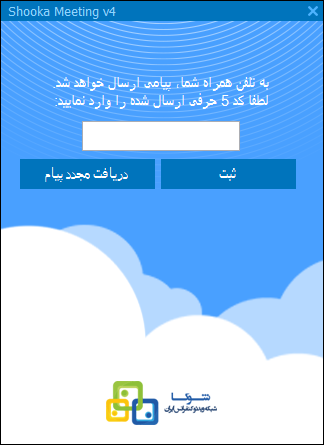
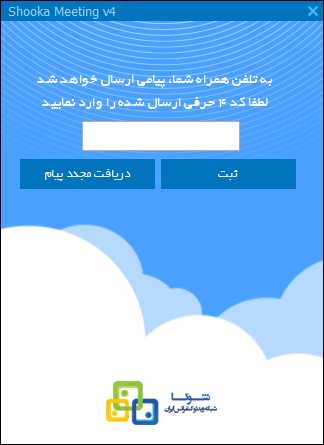
welcome form and confirm number form

Changed region(s): [[0.1235, 0.1461, 0.8333, 0.2629], [0.1235, 0.3798, 0.4012, 0.409], [0.679, 0.3798, 0.7407, 0.409]]

diff --git a/DesktopGuide/fa33.Designer.cs b/DesktopGuide/fa33.Designer.cs
@@ -37,6 +37,9 @@
             this.arrow6 = new DesktopGuide.Controls.Arrow();
             this.main = new System.Windows.Forms.PictureBox();
             this.myButton5 = new DesktopGuide.Controls.MyButton();
+            this.myLabel2 = new DesktopGuide.Controls.MyLabel();
+            this.arrow1 = new DesktopGuide.Controls.Arrow();
+            this.myLabel9 = new DesktopGuide.Controls.MyLabel();
             ((System.ComponentModel.ISupportInitialize)(this.main)).BeginInit();
             this.main.SuspendLayout();
             this.SuspendLayout();
@@ -66,7 +69,7 @@
             this.myLabel1.AutoSize = true;
             this.myLabel1.Font = new System.Drawing.Font("Arial", 12F, System.Drawing.FontStyle.Regular, System.Drawing.GraphicsUnit.Point, ((byte)(178)));
             this.myLabel1.ForeColor = System.Drawing.Color.Red;
-            this.myLabel1.Location = new System.Drawing.Point(425, 232);
+            this.myLabel1.Location = new System.Drawing.Point(425, 263);
             this.myLabel1.Name = "myLabel1";
             this.myLabel1.Size = new System.Drawing.Size(17, 18);
             this.myLabel1.TabIndex = 47;
@@ -91,8 +94,8 @@
             this.label2.RightToLeft = System.Windows.Forms.RightToLeft.Yes;
             this.label2.Size = new System.Drawing.Size(311, 243);
             this.label2.TabIndex = 54;
-            this.label2.Text = "شماره تلفن همراه خود را در این قسمت وارد نمایید.\r\n\r\nبرای دریافت کد فعالسازی این د" +
-    "کمه را فشار دهید.\r\n";
+            this.label2.Text = "شماره تلفن همراه خود را در این قسمت وارد نمایید.\r\n\r\nایمیل خود را در این قسمت وارد" +
+    " نمایید.\r\n\r\nبرای دریافت کد فعالسازی این دکمه را فشار دهید.\r\n";
             // 
             // myLabel8
             // 
@@ -128,9 +131,9 @@
             this.arrow6._transparentParent = this;
             this.arrow6.BackColor = System.Drawing.Color.Transparent;
             this.arrow6.ForeColor = System.Drawing.Color.SteelBlue;
-            this.arrow6.Location = new System.Drawing.Point(315, 232);
+            this.arrow6.Location = new System.Drawing.Point(379, 262);
             this.arrow6.Name = "arrow6";
-            this.arrow6.Size = new System.Drawing.Size(103, 18);
+            this.arrow6.Size = new System.Drawing.Size(42, 18);
             this.arrow6.TabIndex = 80;
             // 
             // main
@@ -153,16 +156,55 @@
             this.myButton5.FlatAppearance.BorderColor = System.Drawing.Color.FromArgb(((int)(((byte)(128)))), ((int)(((byte)(0)))), ((int)(((byte)(0)))), ((int)(((byte)(0)))));
             this.myButton5.FlatAppearance.BorderSize = 2;
             this.myButton5.FlatStyle = System.Windows.Forms.FlatStyle.Flat;
-            this.myButton5.Location = new System.Drawing.Point(136, 162);
+            this.myButton5.Location = new System.Drawing.Point(144, 229);
             this.myButton5.Name = "myButton5";
             this.myButton5.Size = new System.Drawing.Size(136, 43);
             this.myButton5.TabIndex = 49;
             this.myButton5.UseVisualStyleBackColor = false;
             this.myButton5.Click += new System.EventHandler(this.myButton5_Click);
             // 
+            // myLabel2
+            // 
+            this.myLabel2.AutoSize = true;
+            this.myLabel2.Font = new System.Drawing.Font("Arial", 12F, System.Drawing.FontStyle.Regular, System.Drawing.GraphicsUnit.Point, ((byte)(178)));
+            this.myLabel2.ForeColor = System.Drawing.Color.Red;
+            this.myLabel2.Location = new System.Drawing.Point(425, 308);
+            this.myLabel2.Name = "myLabel2";
+            this.myLabel2.Size = new System.Drawing.Size(17, 18);
+            this.myLabel2.TabIndex = 81;
+            this.myLabel2.Text = "3";
+            // 
+            // arrow1
+            // 
+            this.arrow1._CapSize = 10F;
+            this.arrow1._Direction = DesktopGuide.Controls.Arrow.Direction.RightToLeft;
+            this.arrow1._FilledCap = false;
+            this.arrow1._LineWidth = 1F;
+            this.arrow1._transparentParent = this;
+            this.arrow1.BackColor = System.Drawing.Color.Transparent;
+            this.arrow1.ForeColor = System.Drawing.Color.SteelBlue;
+            this.arrow1.Location = new System.Drawing.Point(296, 307);
+            this.arrow1.Name = "arrow1";
+            this.arrow1.Size = new System.Drawing.Size(125, 18);
+            this.arrow1.TabIndex = 80;
+            // 
+            // myLabel9
+            // 
+            this.myLabel9.AutoSize = true;
+            this.myLabel9.Font = new System.Drawing.Font("Times New Roman", 14.25F, System.Drawing.FontStyle.Regular, System.Drawing.GraphicsUnit.Point, ((byte)(178)));
+            this.myLabel9.ForeColor = System.Drawing.Color.Red;
+            this.myLabel9.Location = new System.Drawing.Point(757, 191);
+            this.myLabel9.Name = "myLabel9";
+            this.myLabel9.Size = new System.Drawing.Size(25, 21);
+            this.myLabel9.TabIndex = 82;
+            this.myLabel9.Text = "-3";
+            // 
             // fa33
             // 
             this.ClientSize = new System.Drawing.Size(800, 600);
+            this.Controls.Add(this.myLabel9);
+            this.Controls.Add(this.arrow1);
+            this.Controls.Add(this.myLabel2);
             this.Controls.Add(this.arrow7);
             this.Controls.Add(this.arrow6);
             this.Controls.Add(this.myLabel8);
@@ -182,6 +224,9 @@
             this.Controls.SetChildIndex(this.arrow7, 0);
             this.Controls.SetChildIndex(this.label1, 0);
             this.Controls.SetChildIndex(this.prevButton, 0);
+            this.Controls.SetChildIndex(this.myLabel2, 0);
+            this.Controls.SetChildIndex(this.arrow1, 0);
+            this.Controls.SetChildIndex(this.myLabel9, 0);
             ((System.ComponentModel.ISupportInitialize)(this.main)).EndInit();
             this.main.ResumeLayout(false);
             this.ResumeLayout(false);
@@ -200,6 +245,9 @@
         private Controls.Arrow arrow7;
         private Controls.Arrow arrow6;
         private Controls.MyButton myButton5;
+        private Controls.Arrow arrow1;
+        private Controls.MyLabel myLabel2;
+        private Controls.MyLabel myLabel9;
 
     }
 }

diff --git a/DesktopGuide/Controls/MyForm.cs b/DesktopGuide/Controls/MyForm.cs
@@ -24,7 +24,9 @@ namespace DesktopGuide
         protected void MoveToSlide(MyForm f)
         {
             this.Hide();
-            switch (f.ShowDialog())
+            DialogResult result = f.ShowDialog();
+            f.Dispose();
+            switch (result)
             {
                 case DialogResult.Cancel:
                     this.Close();
